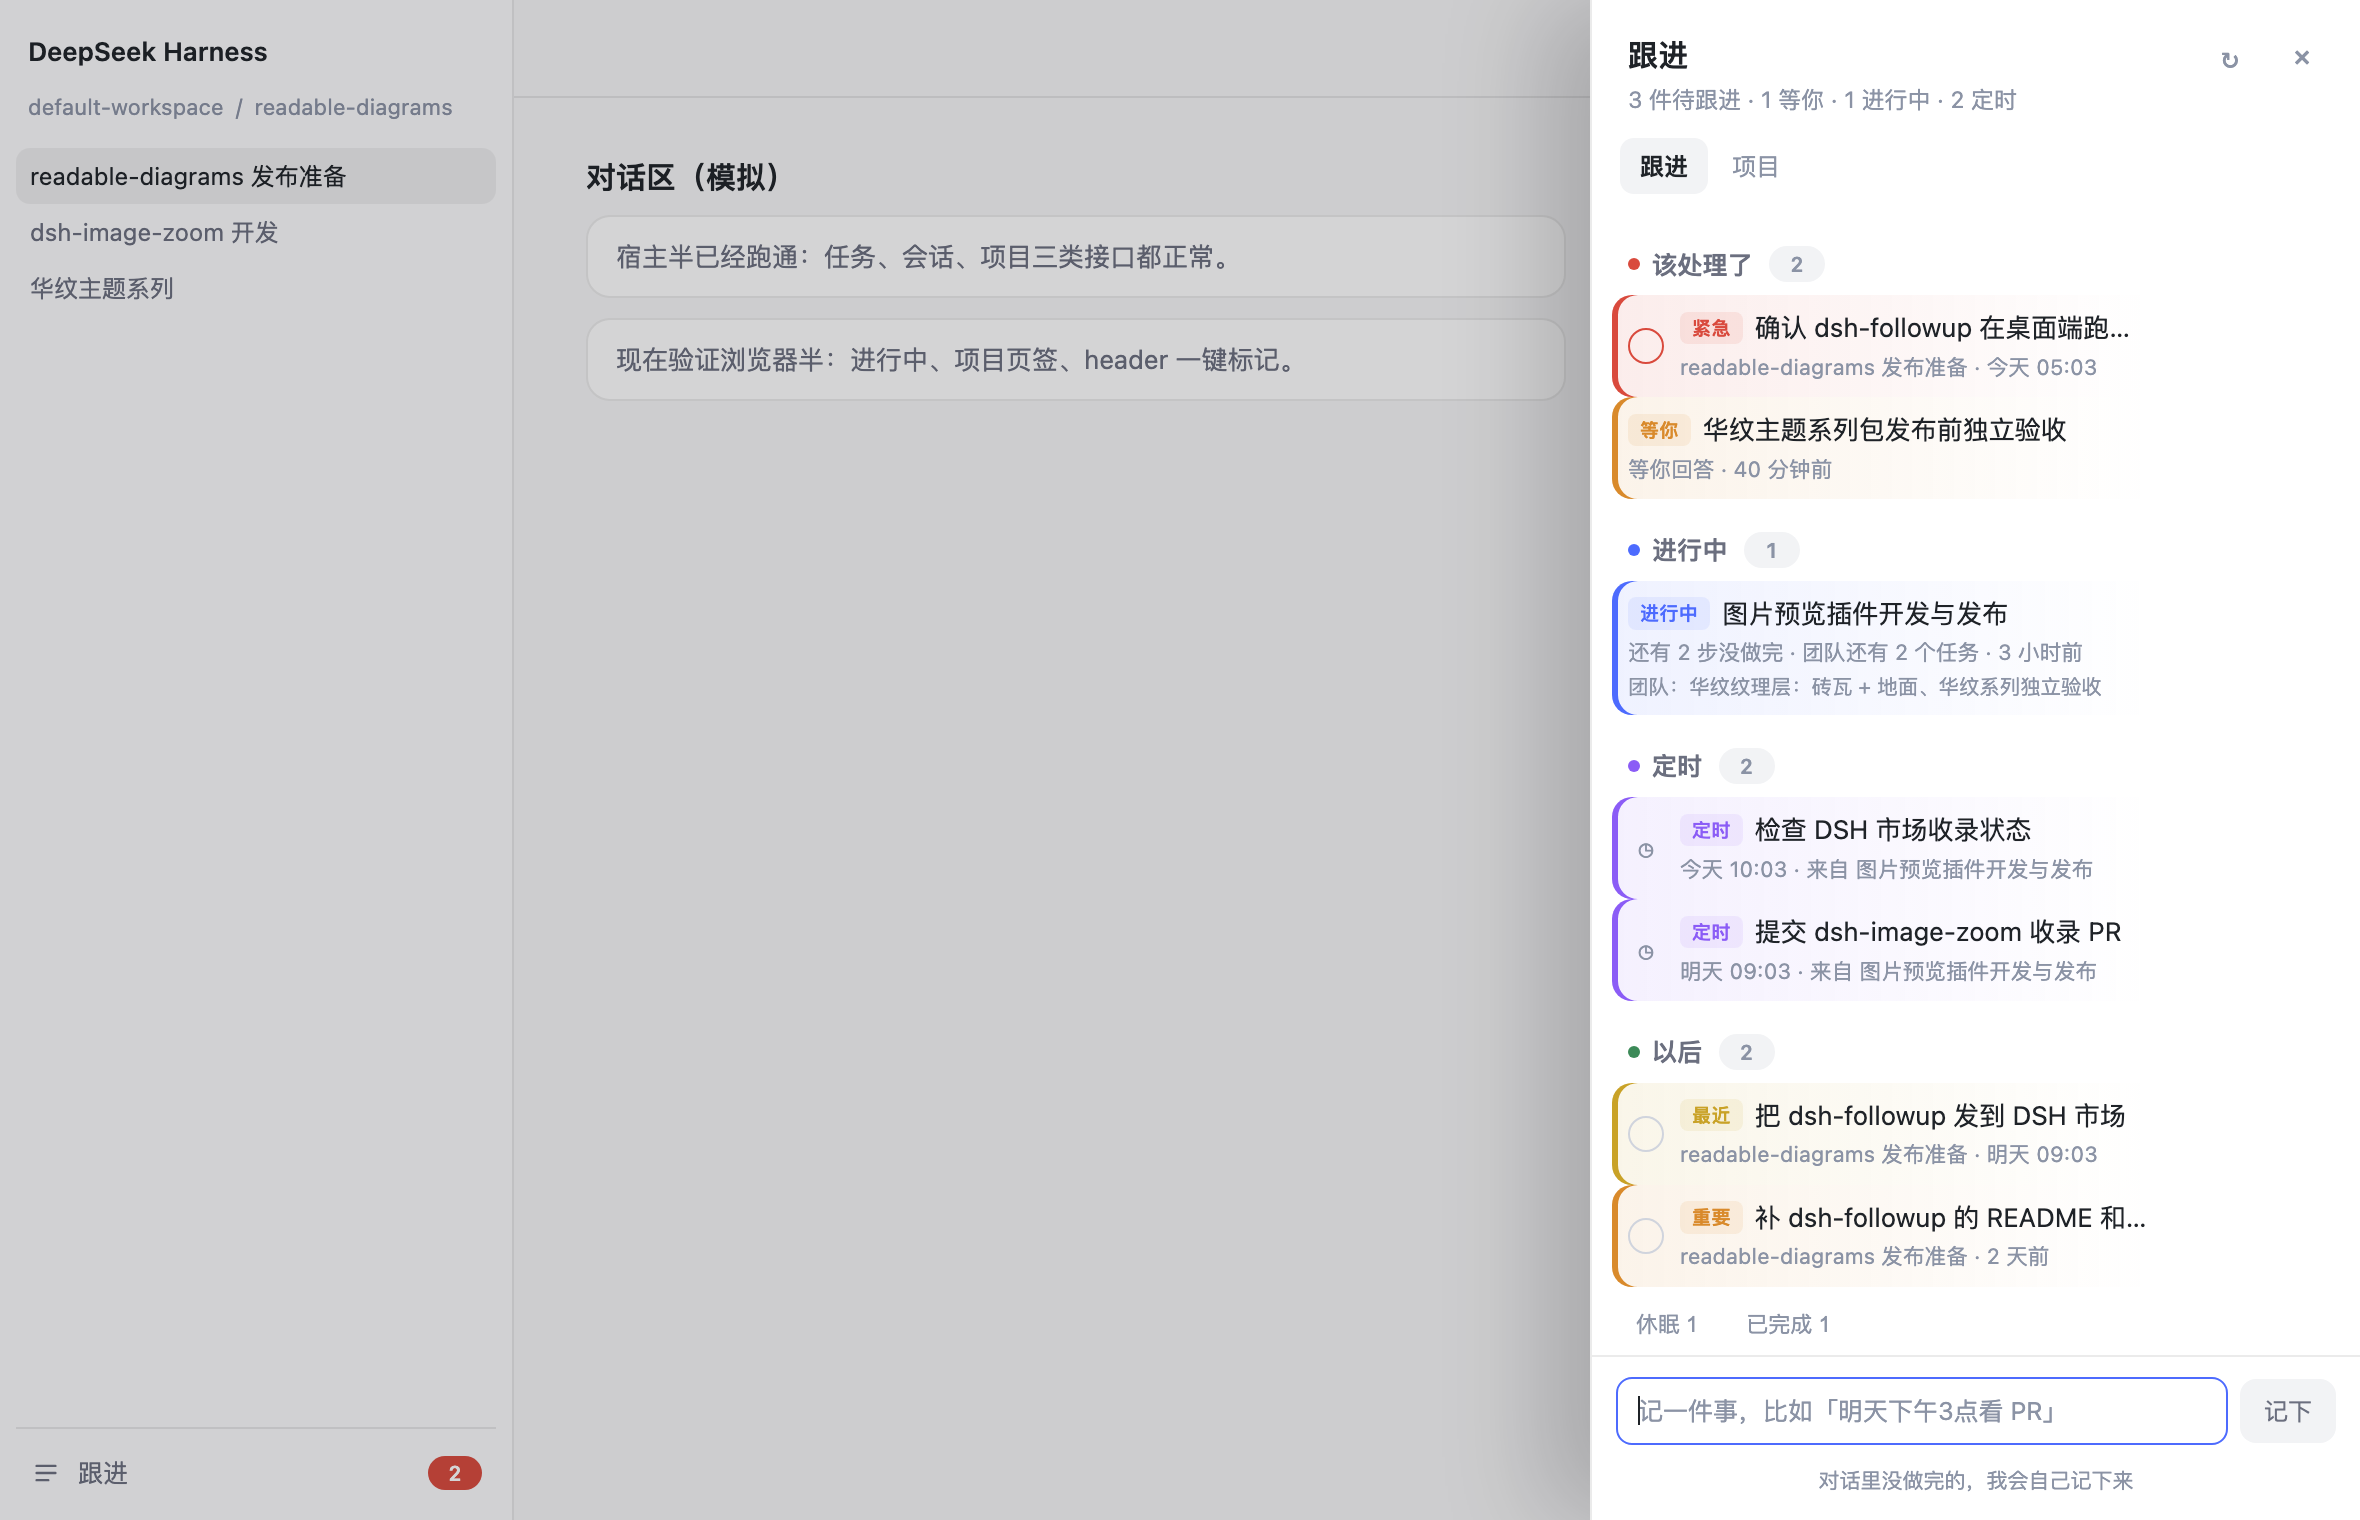
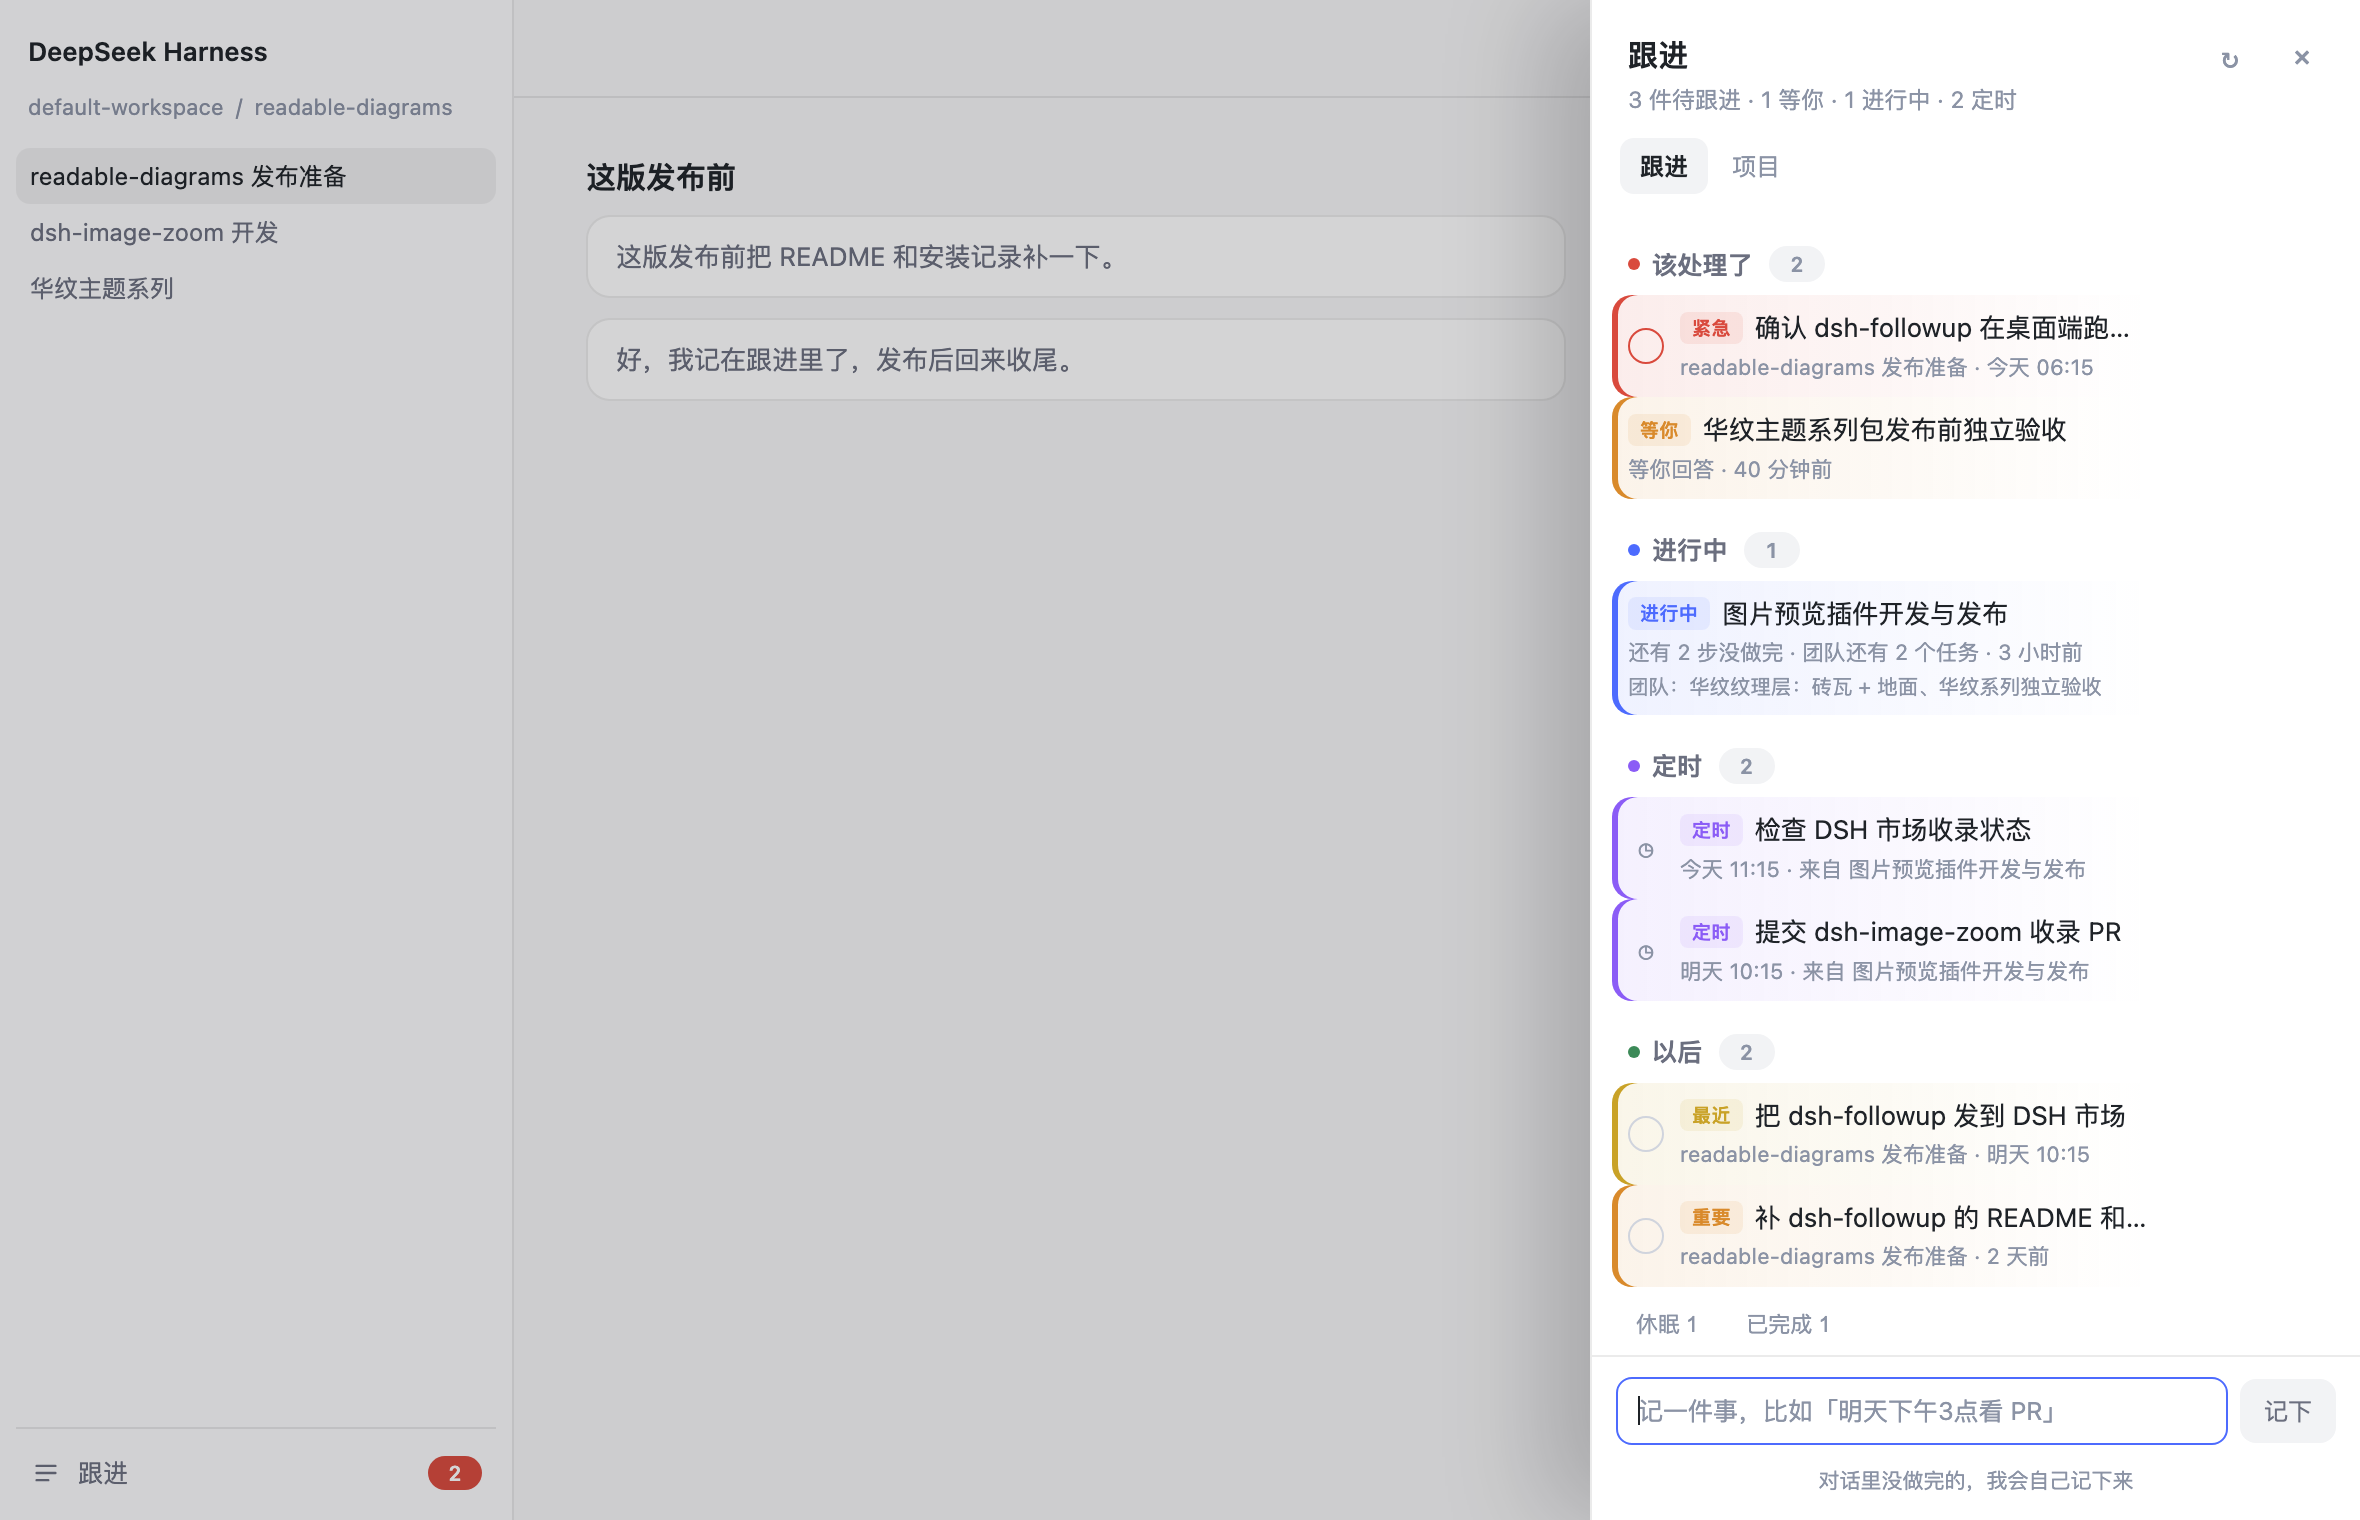
docs: one full-window screenshot with three numbered points; realistic demo conversation

diff --git a/tests/harness.html b/tests/harness.html
@@ -58,9 +58,9 @@
       <span class="fake-title">对话 · readable-diagrams 发布准备</span>
     </div>
     <div class="fake-body">
-      <h1>对话区（模拟）</h1>
-      <div class="fake-bubble">宿主半已经跑通：任务、会话、项目三类接口都正常。</div>
-      <div class="fake-bubble">现在验证浏览器半：进行中、项目页签、header 一键标记。</div>
+      <h1>这版发布前</h1>
+      <div class="fake-bubble">这版发布前把 README 和安装记录补一下。</div>
+      <div class="fake-bubble">好，我记在跟进里了，发布后回来收尾。</div>
     </div>
   </main>
 
@@ -195,12 +195,12 @@
       const sessionLabels = ['readable-diagrams release prep', 'dsh-image-zoom dev', 'Huawen theme series']
       fakeSessions.forEach((el, i) => { if (sessionLabels[i]) el.textContent = sessionLabels[i] })
       const mockHeading = document.querySelector('.fake-body h1')
-      if (mockHeading) mockHeading.textContent = 'Conversation (mock)'
+      if (mockHeading) mockHeading.textContent = 'Before this release'
       const fakeTitle = document.querySelector('.fake-title')
       if (fakeTitle) fakeTitle.textContent = 'Conversation · readable-diagrams release prep'
       const bubbles = [...document.querySelectorAll('.fake-bubble')]
-      if (bubbles[0]) bubbles[0].textContent = 'Host half is wired up: tasks, sessions and projects all respond.'
-      if (bubbles[1]) bubbles[1].textContent = 'Now the browser half: in progress, projects tab, header marking.'
+      if (bubbles[0]) bubbles[0].textContent = 'Finish the README and install notes before this release.'
+      if (bubbles[1]) bubbles[1].textContent = 'Noted in Follow-up — we will close it after the release.'
     }
 
     window.__ModuleLoader__ = { load(options) { window.__FU_MODULE__ = options } }
